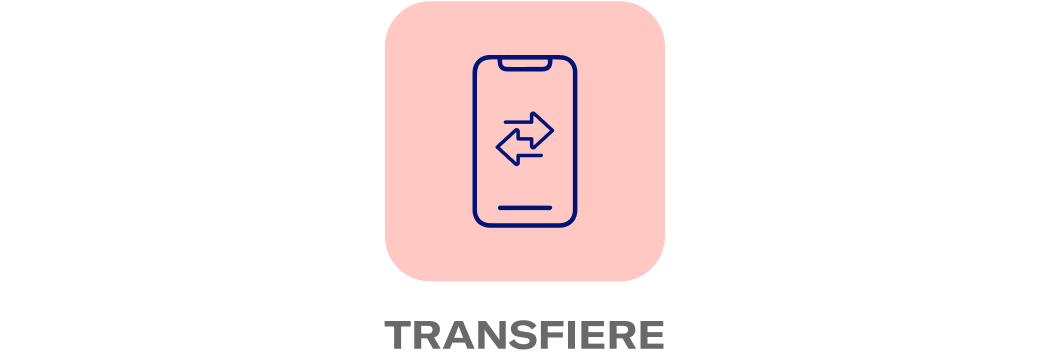
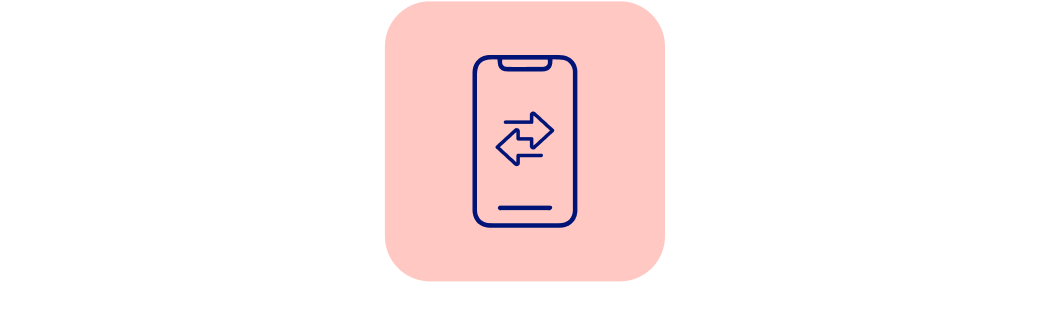
x

diff --git a/Fondeo/Fondeo_N2/Fondeo_N2.html b/Fondeo/Fondeo_N2/Fondeo_N2.html
@@ -494,15 +494,18 @@
             </tr>
             <tr>
               <td>
-                <table style="padding:0 40px 10px 40px;max-width:100%;">
+                <table style="padding:0 40px 10px 40px;max-width:100%;text-align: center;">
                   <tr>
                       <td>
                           <img src="https://openbank-newsletter-q2k5.vercel.app/Fondeo/Fondeo_N2/img/bloque_2.png" width="100%" alt="" style="display:block;margin-top:10px; margin-bottom:0;">
                       </td>
                   </tr>
                   <tr>
+                    <td style="font-weight: bold;">TRANSFIERE</td>
+                  </tr>
+                  <tr>
                       <td>
-                          <a href="#"><img src="https://openbank-newsletter-q2k5.vercel.app/Friends-and-Family/Onboarding_TDC_2/img/tdc-btn-2.png" width="100%" alt="" style="display:block;margin: 20px auto 0;"></a>
+                          <p>Consulta los datos de tu tarjeta en tu<br>App Openbank y agrega saldo a tu cuenta.</p>
                       </td>
                   </tr>
                   <tr>
